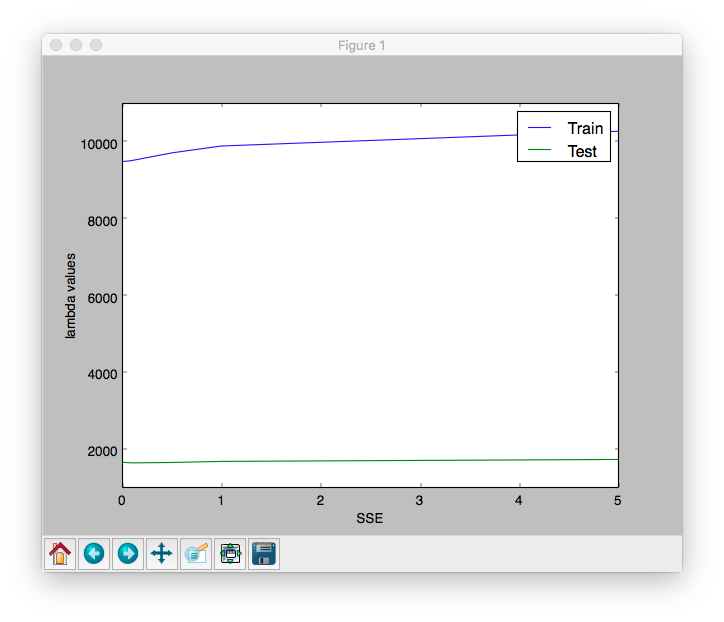
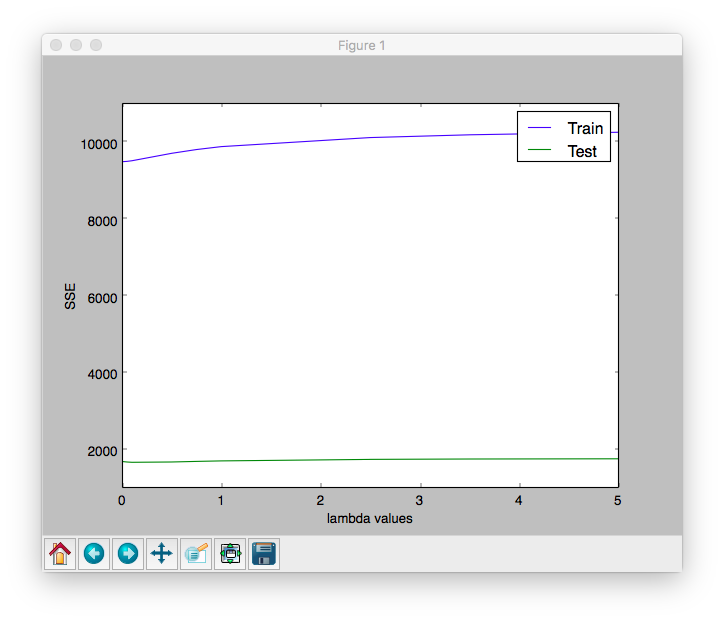
fix lambda graph

diff --git a/project1/main.py b/project1/main.py
@@ -102,7 +102,7 @@ def main():
     print
     print "--- PART 6 ---"
     print
-    lambda_vals = [0.01, 0.05, 0.1, 0.5, 1, 5]
+    lambda_vals = [0.01, 0.05, 0.1, 0.5, 0.75, 1, 2.5, 3.5, 5]
     sse_lam_train = []
     sse_lam_test = []
 
@@ -125,8 +125,8 @@ def main():
         wl_lam_train.append(wl_train)
 
     # Graphing uncomment to show graphs
-    #graph_sse_x(sse_lam_train, sse_lam_test, lambda_vals, "lambda values",
-    #            "SSE", "Train", "Test")
+    graph_sse_x(sse_lam_train, sse_lam_test, lambda_vals, "SSE",
+               "lambda values", "Train", "Test")
 
     ### Part 7 --- compare w values as lambda gets bigger
 
